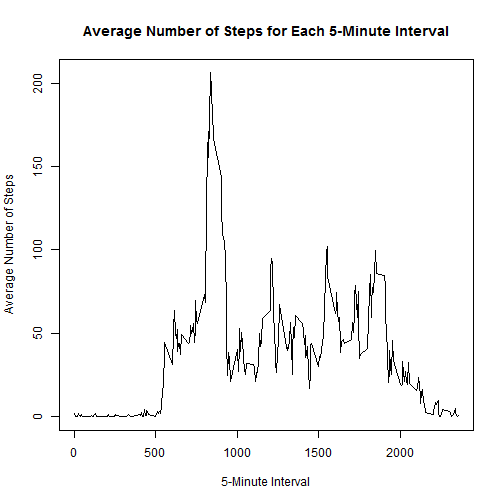
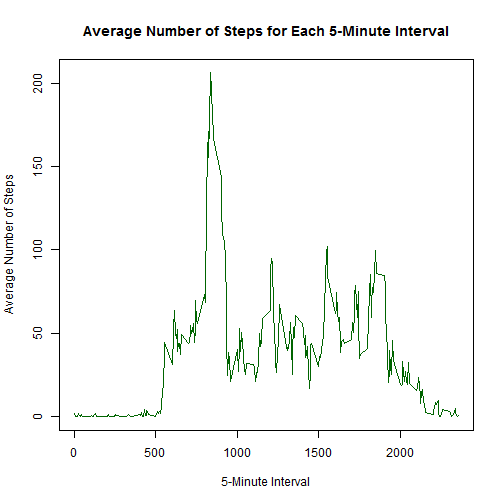
Project1

diff --git a/PA1_template.html b/PA1_template.html
@@ -251,10 +251,10 @@ median1
 
 <p>The following is the plot showing the average number of steps taken, averaged across all days.  The x-axis labels can be interpreted as the following: 500 = hour 5, minute 0; 1005 = hour 10, minute 5, etc: </p>
 
-<pre><code class="r">plot.ts(aggdata2$interval,aggdata2$steps,type=&quot;l&quot;,xlab=&quot;5-Minute Interval&quot;,ylab=&quot;Average Number of Steps&quot;,main=&quot;Average Number of Steps for Each 5-Minute Interval&quot;)
+<pre><code class="r">plot.ts(aggdata2$interval,aggdata2$steps,type=&quot;l&quot;,xlab=&quot;5-Minute Interval&quot;,ylab=&quot;Average Number of Steps&quot;,main=&quot;Average Number of Steps for Each 5-Minute Interval&quot;,col=&quot;dark green&quot;)
 </code></pre>
 
[2 lines of base64/hex data omitted]
 
 <p>###Interval Where Maximum Number of Steps Was Taken</p>
 
@@ -378,12 +378,12 @@ aggdata5 &lt;- aggdata3[aggdata3$type==&quot;weekend&quot;,]
 </code></pre>
 
 <pre><code class="r">##plot
-par(mfrow=c(2,1),mar=c(2,2,2,2))
-plot.ts(aggdata4$interval,aggdata4$steps,type=&quot;l&quot;,xlab=&quot;5 Minute Interval&quot;,ylab=&quot;Average Number of Steps&quot;,main=&quot;Average Number of Steps For Each 5-Minute Interval on Weekdays&quot;)
-plot.ts(aggdata5$interval,aggdata5$steps,type=&quot;l&quot;,xlab=&quot;5 Minute Interval&quot;,ylab=&quot;Average Number of Steps&quot;,main=&quot;Average Number of Steps For Each 5-Minute Interval on Weekends&quot;)
+par(mfrow=c(1,2),cex.lab=0.75,cex.main=1,cex.axis=0.75)
+plot(aggdata4$interval,aggdata4$steps,type=&quot;l&quot;,main=&quot;Average Number of Steps For Each 5-Minute Interval on Weekdays&quot;,xlab=&quot;5 Minute Interval&quot;,ylab=&quot;Average Number of Steps&quot;,col = &quot;blue&quot;)
+plot(aggdata5$interval,aggdata5$steps,type=&quot;l&quot;,xlab=&quot;5 Minute Interval&quot;,ylab=&quot;Average Number of Steps&quot;,main=&quot;Average Number of Steps For Each 5-Minute Interval on Weekends&quot;, col=&quot;red&quot;)
 </code></pre>
 
[2 lines of base64/hex data omitted]
 
 <p>From this plot, we can see that the individual was most active in the morning leading up to 9am (900 on the x-axis) on weekdays and was more idle during the daytime.  However, on weekends, the individual was active in the morning as well as the afternoon and even into the evening up to about 8pm (2000 on the x-axis).</p>
 

diff --git a/PA1_template.md b/PA1_template.md
@@ -73,7 +73,7 @@ The following is the plot showing the average number of steps taken, averaged ac
 
 
 ```r
-plot.ts(aggdata2$interval,aggdata2$steps,type="l",xlab="5-Minute Interval",ylab="Average Number of Steps",main="Average Number of Steps for Each 5-Minute Interval")
+plot.ts(aggdata2$interval,aggdata2$steps,type="l",xlab="5-Minute Interval",ylab="Average Number of Steps",main="Average Number of Steps for Each 5-Minute Interval",col="dark green")
 ```
 
 ![plot of chunk eighthchunk](figure/eighthchunk.png) 
@@ -227,9 +227,9 @@ aggdata5 <- aggdata3[aggdata3$type=="weekend",]
 
 ```r
 ##plot
-par(mfrow=c(2,1),mar=c(2,2,2,2))
-plot.ts(aggdata4$interval,aggdata4$steps,type="l",xlab="5 Minute Interval",ylab="Average Number of Steps",main="Average Number of Steps For Each 5-Minute Interval on Weekdays")
-plot.ts(aggdata5$interval,aggdata5$steps,type="l",xlab="5 Minute Interval",ylab="Average Number of Steps",main="Average Number of Steps For Each 5-Minute Interval on Weekends")
+par(mfrow=c(1,2),cex.lab=0.75,cex.main=1,cex.axis=0.75)
+plot(aggdata4$interval,aggdata4$steps,type="l",main="Average Number of Steps For Each 5-Minute Interval on Weekdays",xlab="5 Minute Interval",ylab="Average Number of Steps",col = "blue")
+plot(aggdata5$interval,aggdata5$steps,type="l",xlab="5 Minute Interval",ylab="Average Number of Steps",main="Average Number of Steps For Each 5-Minute Interval on Weekends", col="red")
 ```
 
 ![plot of chunk twentieth chunk](figure/twentieth chunk.png) 
